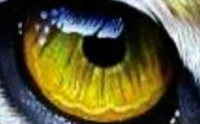
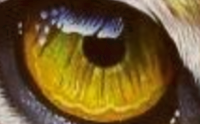
fine tune blink.
updated image with slight overlay of our orange branded color.
matched the border-radius to original button. made blink more classy
and realistic.

diff --git a/src/Shared/Search/search.scss b/src/Shared/Search/search.scss
@@ -33,30 +33,37 @@
 .searchBtn:focus {
   grid-column: 3;
   outline: 0;
-  border-radius: 37px;
-  animation: blink 5s;
+  animation: blink 3s;
 }
 
 @keyframes blink {
-  10% {
+  5% {
     transform: rotateX(90deg);
   }
   80% {
-    background: url("tiger-eye.png") center;
+    background: center url("tiger-eye.png")  no-repeat;
     transform: rotateX(0deg) rotateY(0deg);
+    transition: 0.75s ease-in-out;
     color: white;
-    padding: 30px;
-    border: 3px solid #000000;
+    padding-right: 13px;
+    padding-left: 13px;
+    padding-left: 7px;
+    padding-bottom: 7px;
+    border: 1px solid #000000;
     border-radius: 100%;
-    transform: scale(1, 0.75);
+    // transform: scale(1, 1);
   }
-  10% {
-    grid-column: 3;
+  85% {
+    transform: rotateX(90deg);
+  }
+  100% {
+    // transform: rotateX(90deg);
+    transition: 1s ease-in-out;
     padding: 3px;
     width: minmax(37px, 25%);
     height: minmax(15px, 3vh);
     background-color: #cb7119;
-    border: 3px solid #cb7119;
+    border: 2px solid #cb7119;
     border-radius: 7px;
   }
 }

diff --git a/src/Shared/Logo/logo.scss b/src/Shared/Logo/logo.scss
@@ -1,5 +1,6 @@
 .logo {
     max-width: 75%;
     grid-column: 1;
+    padding-left: 0px;
     margin: auto;
 }
